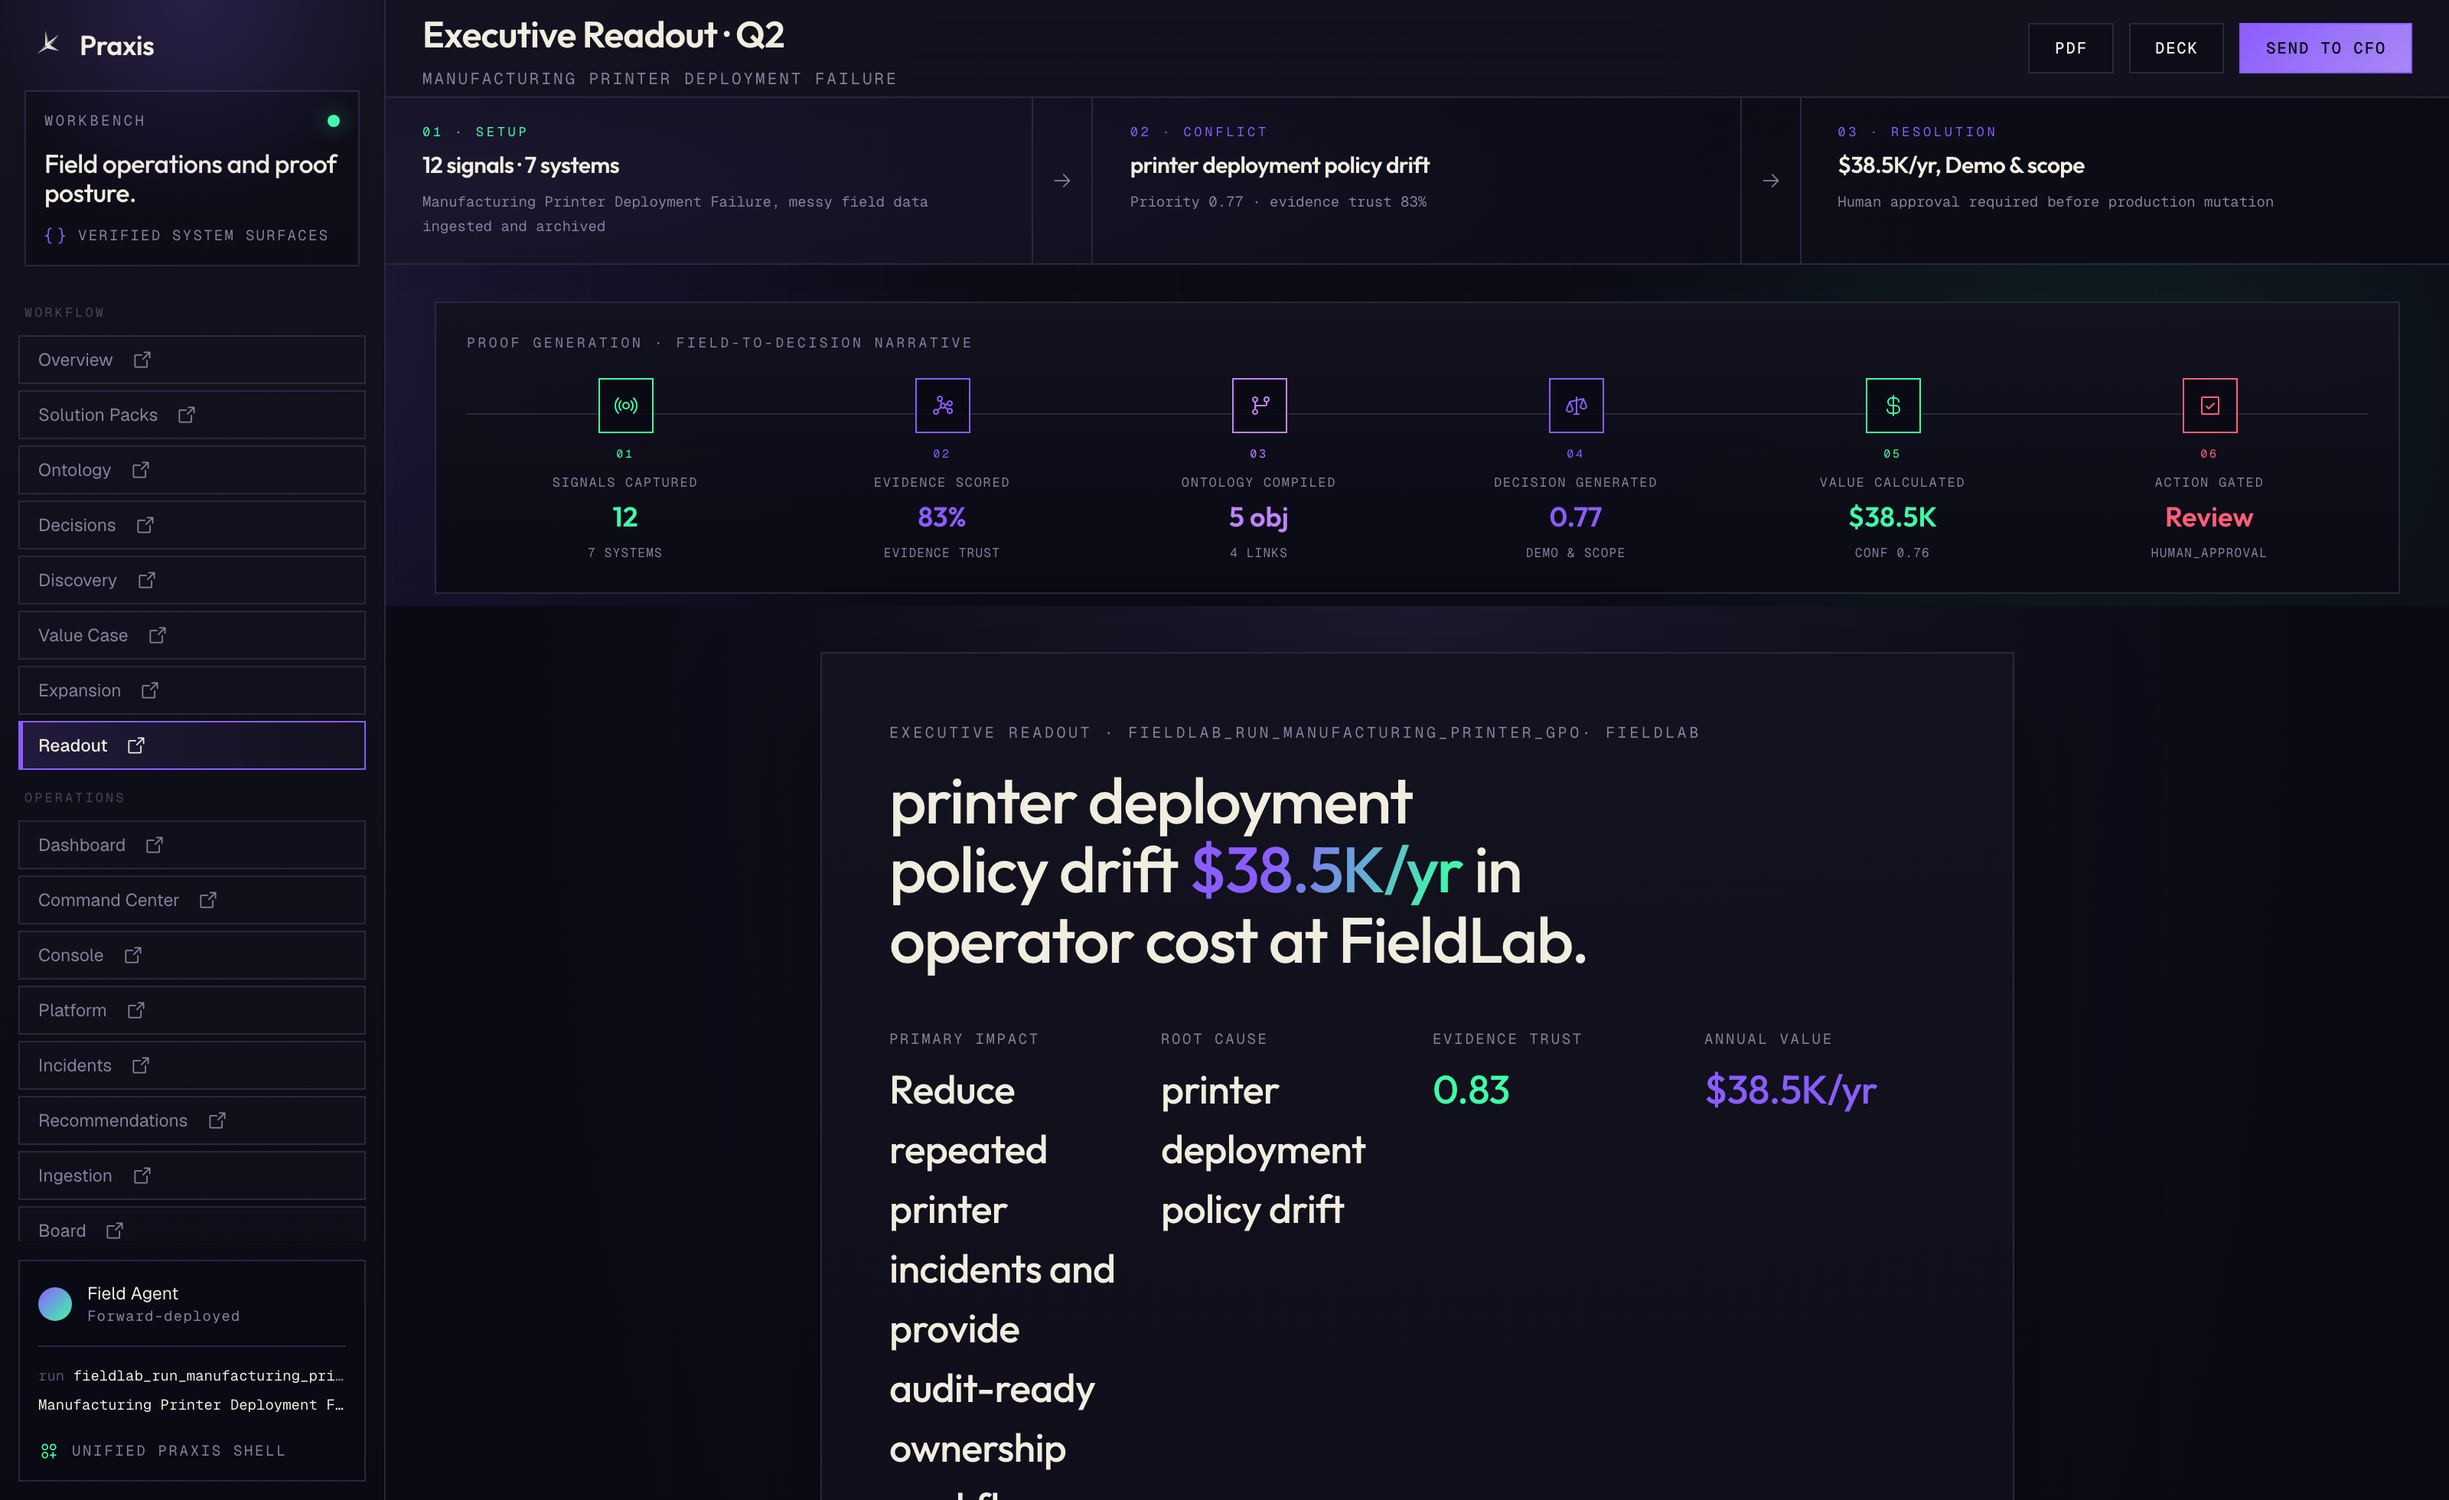
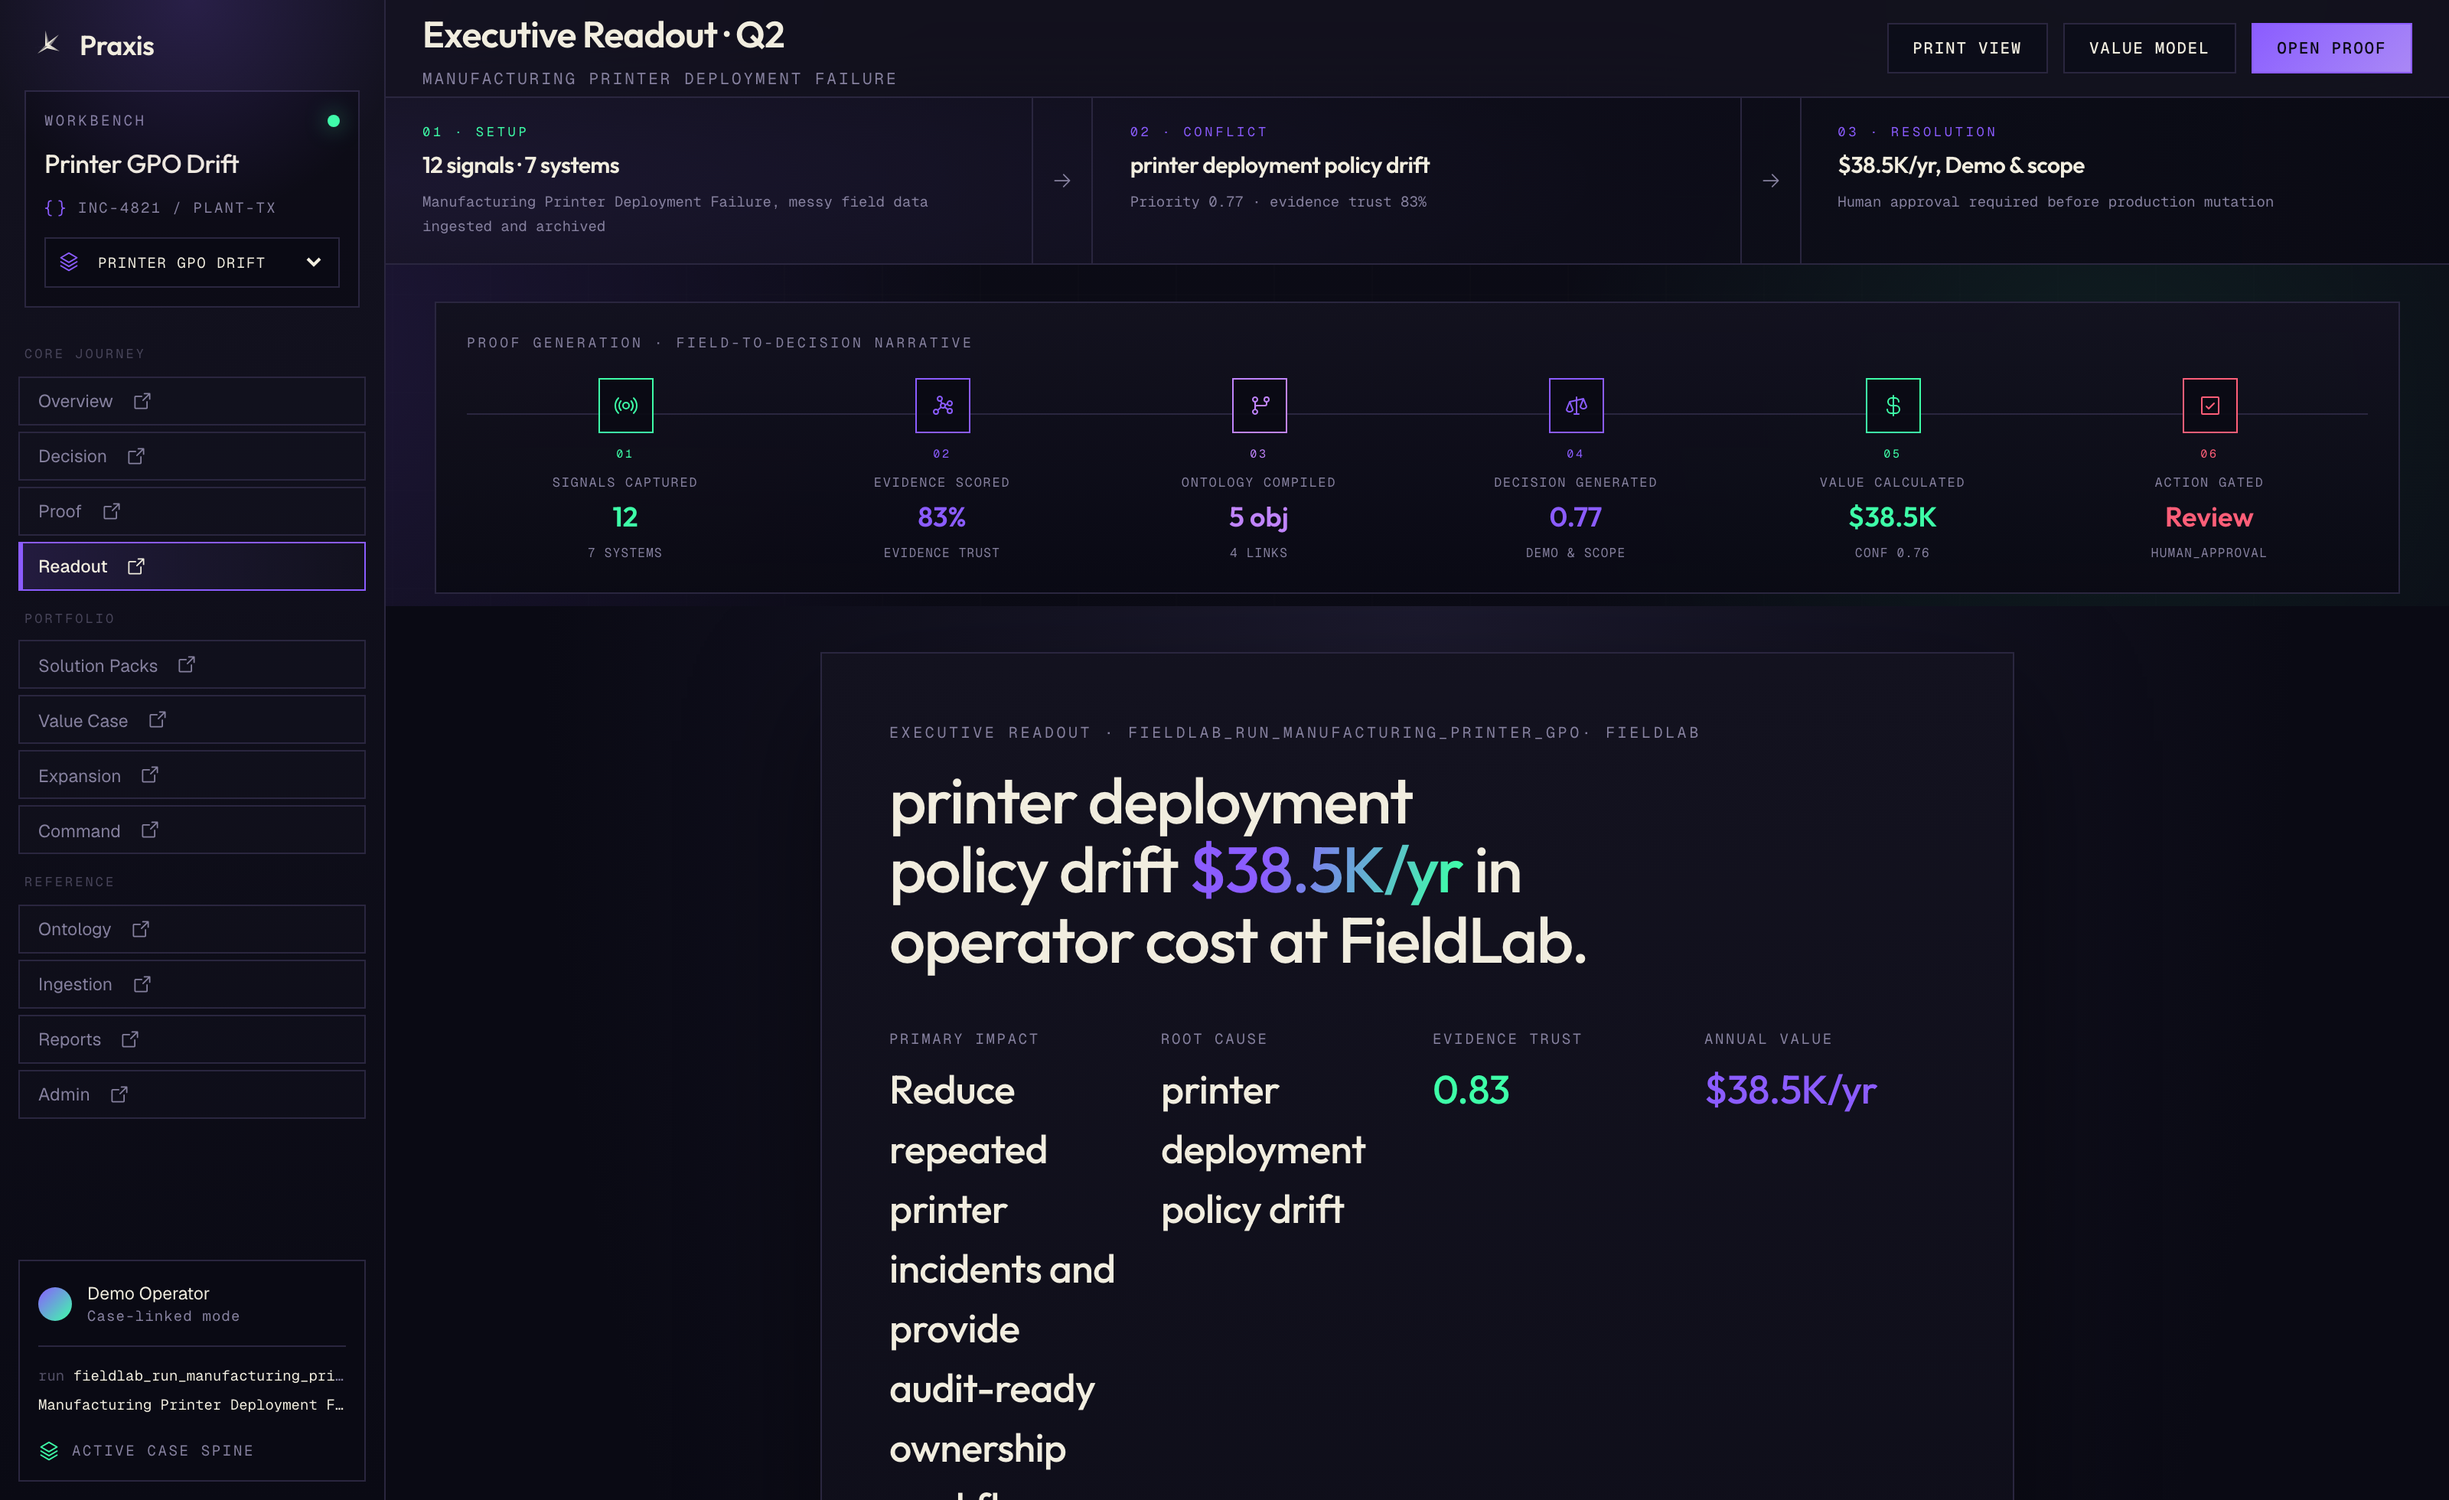
docs: refresh README screenshots and align docs/diagrams with current UI and hardening
Regenerate the screenshots/praxis grid from a NEXT_PUBLIC_DEMO_MODE=1 production
build so the README reflects the current UI (Carry-proof hero, consolidated
Core Journey/Portfolio/Reference nav, active-case spine, download actions).

- frontend UX rationale: correct the color system to the Praxis palette
  (Plasma Violet / Argon Mint), document the active-case spine and navigation,
  and add the active-case switch to the frontend state machine diagram
- data model: add durable value_cases and deployment_plans entities to the ER
  diagram and table reference
- deployment guide: document the production credential boot guard,
  production-gated auth, and security headers in the acceptance bar/enforcement
- flagship-readiness note: add a forward-reference to the production-hardening
  pass that superseded the in-process value-case/deployment-plan storage

Verified: make praxis-canvas-verify passed; screenshots inspected visually.

diff --git a/docs/11-frontend-ux-rationale.md b/docs/11-frontend-ux-rationale.md
@@ -11,10 +11,32 @@ A dashboard displays information for consumption. A control room enables action,
 The UI is organized around the operational intelligence lifecycle:
 
 ```
-Signal -> Decision -> Workflow -> Feedback -> Replay
+Signal -> Decision -> Proof -> Approval -> Readout -> Replay
 ```
 
-Every screen reinforces this narrative. Users do not browse metrics. They inspect signals, review decisions, route work, provide feedback, and replay incidents.
+Every screen reinforces this narrative. Users do not browse metrics. They inspect signals, review decisions, verify proof, approve actions, read out value, and replay incidents.
+
+## Active Case Spine
+
+A single **active case** carries `pack`, `scenario`, and `ticket` through the
+whole journey via URL parameters. Selecting a case in the sidebar (or on the
+landing simulation lab) preserves identity across Overview, Decision, Proof,
+Readout, Portfolio, and Command surfaces, so a reviewer never loses the thread
+or silently snaps back to the printer scenario. The spine is implemented in
+`apps/web/src/lib/active-case.ts` and consumed via `hrefWithActiveCase(...)`.
+
+## Navigation
+
+The workbench shell exposes a curated, product-first navigation instead of a
+flat list of every route:
+
+- **Core Journey**: Overview, Decision, Proof, Readout — the spine a reviewer
+  follows end to end.
+- **Portfolio**: Solution Packs, Value Case, Expansion, Command — case
+  portfolio and cross-case context.
+- **Reference**: Ontology, Ingestion, Reports, Admin — supporting surfaces.
+
+Case-aware links carry the active case; reference links that are global do not.
 
 ## Layout Principles
 
@@ -34,18 +56,25 @@ Motion is used only to communicate state change:
 
 ## Color System
 
-### Primary Accent: Amber
-Amber is the only primary accent color. It represents:
-- Active decisions
-- Pending actions
+The Praxis palette is the source of truth (`apps/web/src/app/globals.css`,
+`docs/praxis/Praxis-Brand-Replication.md`). Components reference `var(--praxis-*)`
+tokens; raw hex is forbidden and enforced by `gpt-taste/no-raw-hex`.
+
+### Primary Accent: Plasma Violet
+Plasma Violet (`--praxis-plasma`, `#8B5CFF`) is the primary accent. It represents:
+- Active case and selected context
+- Primary actions and decision focus
 - System attention
 
 ### Semantic Colors
-- **Rose**: Danger, critical incidents, errors
-- **Emerald**: Verified recovery, accepted recommendations, healthy state
-- **Zinc**: Neutral context, metadata, inactive state
+- **Argon Mint** (`--praxis-argon`, `#3EFFA8`): verified recovery, accepted
+  recommendations, healthy/verifiable state
+- **Crit** (`--praxis-crit`): danger, critical incidents, errors
+- **Ash / Iron** (`--praxis-mute`, `--praxis-faint`): neutral context, metadata,
+  inactive state
 
-No purple, cyan, or pink accents exist in the operational UI. These colors are reserved for non-operational contexts only.
+The surfaces are built on the dark Obsidian/Onyx/Mineral neutrals. Avoid amber as
+a dominant accent, AI-style purple-blue gradients, and neon outer glows.
 
 ## Typography
 
@@ -135,6 +164,9 @@ stateDiagram-v2
 
     Ready --> Selecting: Select record or pack
     Selecting --> Ready: Selection changed
+
+    Ready --> SwitchingCase: Switch active case
+    SwitchingCase --> Loading: pack/scenario/ticket updated in URL
 
     Ready --> Filtering: Type search
     Filtering --> Ready: Search applied

diff --git a/docs/09-data-model.md b/docs/09-data-model.md
@@ -13,6 +13,8 @@ erDiagram
     DECISION_RECORD ||--o{ OUTBOX_MESSAGE : triggers
     INCIDENT ||--o{ EVIDENCE_ARTIFACT : contains
     INCIDENT ||--o{ REPLAY_EVENT : reconstructs
+    SOLUTION_PACK ||--o{ VALUE_CASE : quantifies
+    VALUE_CASE ||--o{ DEPLOYMENT_PLAN : plans
 
     OPERATIONAL_EVENT {
         uuid id
@@ -68,6 +70,26 @@ erDiagram
         string artifact_type
         string path
         string checksum
+    }
+
+    VALUE_CASE {
+        int id
+        string value_case_id
+        string solution_pack_id
+        float estimated_annual_value
+        float confidence
+        json assumptions_json
+        datetime created_at
+    }
+
+    DEPLOYMENT_PLAN {
+        int id
+        string plan_id
+        string solution_pack_id
+        string value_case_id
+        json phases_json
+        int timeline_weeks
+        datetime created_at
     }
 ```
 
@@ -169,6 +191,40 @@ Stores platform evidence linked to incidents.
 | checksum | VARCHAR | SHA-256 |
 | metadata | JSONB | Type-specific data |
 | created_at | TIMESTAMP | Attachment time |
+
+### value_cases
+Stores durable value-case ROI records. Created and recalculated cases persist
+here instead of in process memory; deterministic demo cases are seeded on first
+use. Backed by `infrastructure/db/models/value_case.py`.
+
+| Column | Type | Description |
+|--------|------|-------------|
+| id | INTEGER | Primary key |
+| value_case_id | VARCHAR | Unique value-case identifier |
+| solution_pack_id | VARCHAR | Source solution pack |
+| customer_context_json | JSONB | Scenario/buyer context |
+| assumptions_json | JSONB | ROI variables |
+| formulas_json | JSONB | ROI formulas |
+| estimated_annual_value | FLOAT | Computed annual value |
+| confidence | FLOAT | Use-case confidence score |
+| evidence_refs_json | JSONB | Linked proof references |
+| created_at | TIMESTAMP | Creation time |
+
+### deployment_plans
+Stores durable deployment plans. Created plans persist across restarts;
+deterministic demo plans are seeded on first use. Backed by
+`infrastructure/db/models/deployment_plan.py`.
+
+| Column | Type | Description |
+|--------|------|-------------|
+| id | INTEGER | Primary key |
+| plan_id | VARCHAR | Unique plan identifier |
+| solution_pack_id | VARCHAR | Source solution pack |
+| value_case_id | VARCHAR | Linked value case |
+| phases_json | JSONB | Phased rollout plan |
+| timeline_weeks | INTEGER | Total timeline in weeks |
+| environment_json | JSONB | Target environment config |
+| created_at | TIMESTAMP | Creation time |
 
 ## Indexing Strategy
 

diff --git a/docs/architecture/deployment-guide.md b/docs/architecture/deployment-guide.md
@@ -102,8 +102,9 @@ The repo ships three concrete paths for running the full backend stack. **Docker
 Before claiming a backend-backed deployment works:
 
 - [ ] Backend boots in production mode with real `SECRET_KEY`, `ENV=production`, `DEBUG=false`, and public `ALLOWED_ORIGINS`
+- [ ] `users.json` is rotated (or `USERS_FILE` is mounted); the demo credential boot guard passes
 - [ ] `/health` endpoint returns `{"status":"healthy"}`
-- [ ] Frontend can reach the backend via `NEXT_PUBLIC_API_URL` without `NEXT_PUBLIC_DEMO_MODE`
+- [ ] Frontend can reach the backend via `NEXT_PUBLIC_API_URL` without `NEXT_PUBLIC_DEMO_MODE`, and attaches bearer tokens (production enforces auth on mutating/customer-data routes)
 - [ ] At least one real backend-backed workflow completes: login, core route load, and one proof/decision or solution-pack flow
 - [ ] Known non-turnkey gaps are documented rather than hidden
 
@@ -117,7 +118,7 @@ ENV=production
 DEBUG=false
 ```
 
-The API gateway enforces at boot: if `ENV=production` and `SECRET_KEY` is a placeholder, `DEBUG` is true, or `ALLOWED_ORIGINS` is localhost-only, the process exits immediately with a descriptive error.
+The API gateway enforces at boot when `ENV=production`: it exits immediately with a descriptive error if `SECRET_KEY` is a placeholder, `DEBUG` is true, `ALLOWED_ORIGINS` is wildcard/localhost-only, or any account still uses a shipped demo password hash. At runtime in production it also requires a valid bearer token (and role) on state-mutating and customer-data routes via `require_operator` / `require_admin_gated`, and adds HSTS plus baseline security headers. These checks are a no-op outside production so the demo and local dev stay open.
 
 ---
 

diff --git a/docs/verification/2026-06-18-flagship-readiness.md b/docs/verification/2026-06-18-flagship-readiness.md
@@ -55,3 +55,9 @@ make verify-web
 - Initial `make verify-web` then required building the local `eslint-plugin-gpt-taste` workspace package before the hard design gate could run.
 - `make praxis-proof-hashes` initially could not run because `.venv/bin/python` did not exist; the Python virtualenv was created and package installs completed before rerunning.
 - True backend production hardening remains intentionally out of scope for this pass: real `SECRET_KEY`, public `ALLOWED_ORIGINS`, demo credential rotation, broad auth coverage, and durable Postgres-backed FieldLab/value-case/deployment-plan storage.
+
+> **Superseded in part:** a later pass closed several of these items. Value cases
+> and deployment plans now persist to their DB models, production-gated auth
+> covers mutating/customer-data routes, a demo credential boot guard exists, and
+> security headers are added. See `docs/verification/2026-06-18-production-hardening.md`
+> and `docs/release/production-hardening-track.md` for the current posture.
